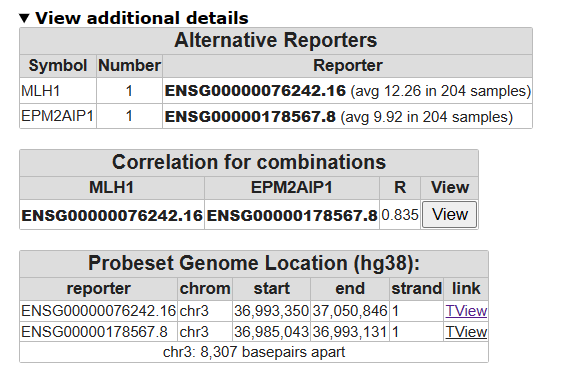
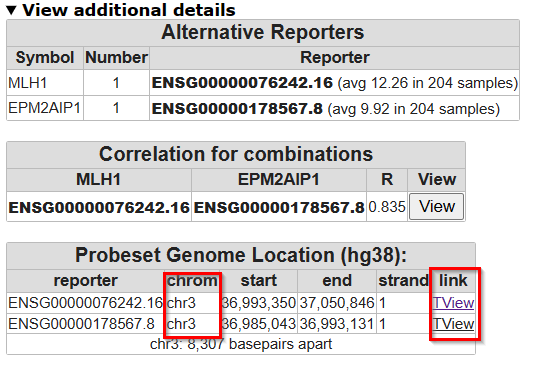
1.3 more MSI in tcga some textual improvement for clearity

diff --git a/docs/Molecular_Oncology_CRC.md b/docs/Molecular_Oncology_CRC.md
@@ -449,30 +449,32 @@ One way to find genes that are possibly affected by MLH1 is to look at (inversel
 
 #### Find genes correlating with a single gene
 
-* From the main page, run the **Find Correlated Genes with a single Gene** module for the MLH1 gene. Use again
-  the filter option for the **Broad 2025 06 c6 oncogenic** gene set. 
+* From the main page, run the **Find Correlated Genes with a single Gene** module for the **MLH1** gene
+  * After typing the gene name in _Search by Gene_, click on the dropdown suggestion to get the reporter field filled in automatically.
+  * Use again the gene set filter option for the **Broad 2025 06 c6 oncogenic** gene set. 
 
 
-* On the result page, click on the best correlating gene (not MLH1) to plot both genes together, in a two gene view. Inspect the correlation. Can you think of reasons why the gene expression might be highly correlated?
+* On the result page, click on the best correlating gene (not MLH1) to plot both genes together, in a two gene view. 
+* Inspect the correlation. Can you think of reasons why the gene expression might be highly correlated?
+  
 
-
-* Click on **View Additional Details**, look at the Probeset Genome Location table.
-
+* Click on **> View Additional Details**
+* Look at the **Probeset Genome Location table**.  
 On which chromosomes are both genes located?
 
+![](_static/images/MolOncCRC/viewadddetails.png "Click TView to go to the Genome Browser")  
 
-* In the table, click on one of the two T-view links and zoom out 2X with the correct button at the top of the page.
+[**Click TView to go to the Genome Browser**](_static/images/MolOncCRC/viewadddetails.png)
 
+* In the table, click on one of the two **T-view links** and **zoom out 2X** with the correct button at the top of the page.
 
-![](_static/images/MolOncCRC/viewadddetails.png "Click TView to go to the Genome Browser")
-
-You arrived at the Genome browser. The Genome Browser allows you to "walk over the genome".
+You arrived at the Genome Browser. The Genome Browser allows you to "walk over the genome".
 
 Underneath, each genome location is annotated with the genes found at that position. Genes colored in red are read in reverse direction. 
 
 ------  
 
-![](_static/images/R2d2_logo.png)**What can you say about the location of the two genes?**
+![](_static/images/R2d2_logo.png)**What can you say about the location of the two genes? And what about their promotor region?**
 <br>
 <br>
 
@@ -480,8 +482,15 @@ Underneath, each genome location is annotated with the genes found at that posit
 
 Now let's see how strongly MLH1 expression is associated with CMS subtypes.
 
-* From the main page, select the **Correlate Gene with a track** analysis to confirm the strong association of MLH1 of course enter the MLH1 gene 
-  expression with the CMS subtype (track **cms_predicted (4 cat)**). In the gearbox you can select color by track in the color mode (groups) pull down.
+* From the main page, select the **Correlate Gene with a track** analysis to confirm the strong association of MLH1 
+  * enter the **MLH1** as gene 
+  * and the track **cms_predicted (4 cat)**. 
+
+In the left upper corner of the plot, you can find a gear icon. When clicked, a menu opens with a lot of interactive plot settings. This gear menu can be found in most plots and allow for quick adjusting and playing with the plots.
+* Click on the **gear icon** to open the menu
+  * Select at the General tab for _Color mode_, **Color by a track**
+  * Set _Color by Track_ to **cms_predicted (4 cat)**. 
+  * You can also choose in Color mode **Color by a Gene** and check different genes, or play around with other tracks to color the groups by.
 
 #### DNA methylation
 
